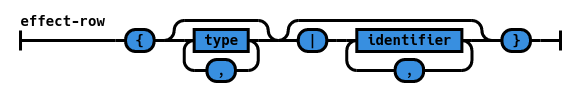
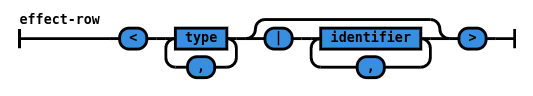
update grammar for function and effect types

Changed region(s): [[0.03, 0.125, 0.9906, 0.8438]]

diff --git a/railroad-diagrams.py b/railroad-diagrams.py
@@ -420,5 +420,55 @@ def zilch_integer():
 
   return mk_diagram2('integer', inner)
 
+def zilch_function_type():
+  inner = Sequence(
+    Choice(
+      1,
+      NonTerminal('atomic-type'),
+      Sequence(
+        Terminal('('),
+        ZeroOrMore(
+          NonTerminal('type'),
+          Terminal(',')
+        ),
+        Terminal(')')
+      )
+    ),
+    HorizontalChoice(
+      Terminal('->'),
+      Terminal('→')
+    ),
+    Choice(
+      1,
+      Skip(),
+      NonTerminal('identifier'),
+      NonTerminal('effect-row')
+    ),
+    NonTerminal('type')
+  )
 
-zilch_integer().writeSvg(sys.stdout.write)
+  return mk_diagram2('function-type', inner)
+
+def zilch_effect_row():
+  inner = Sequence(
+    Terminal('<'),
+    OneOrMore(
+      NonTerminal('type'),
+      Terminal(',')
+    ),
+    Optional(
+      Sequence(
+        Terminal('|'),
+        OneOrMore(
+          NonTerminal('identifier'),
+          Terminal(',')
+        )
+      )
+    ),
+    Terminal('>')
+  )
+
+  return mk_diagram2('effect-row', inner)
+
+
+zilch_effect_row().writeSvg(sys.stdout.write)
